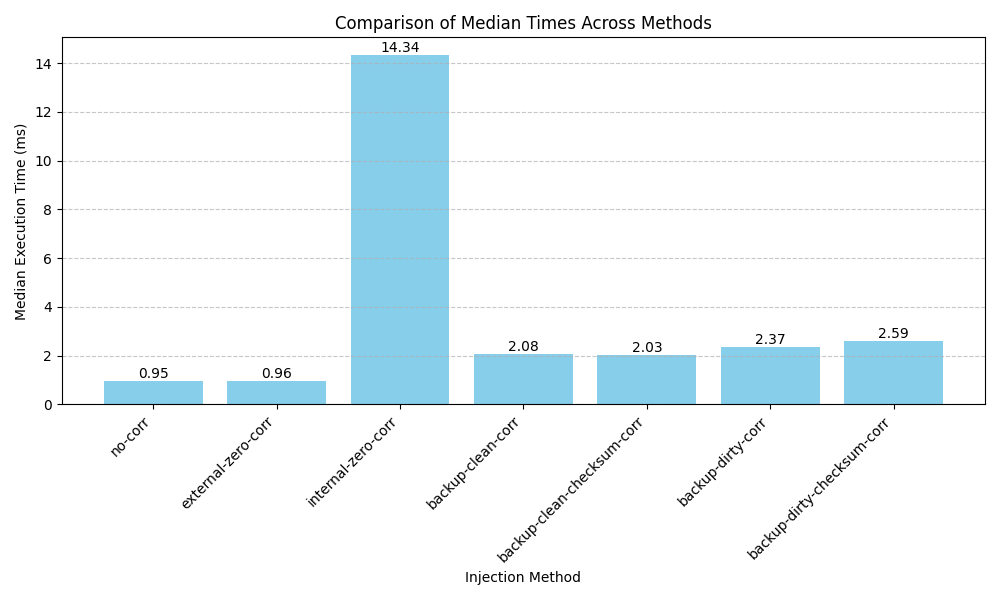
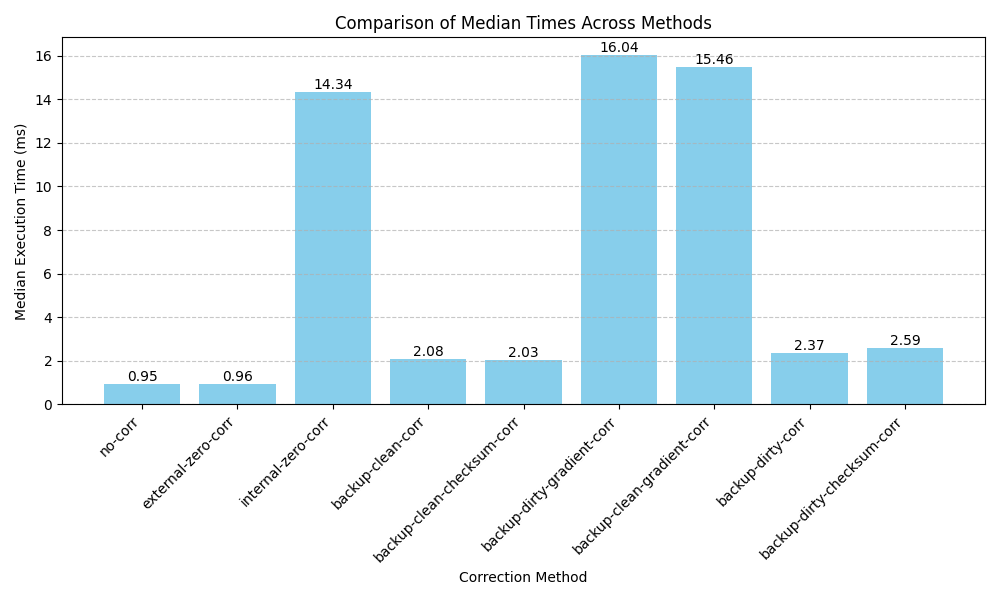
fix exec time chart

diff --git a/data-collection.py b/data-collection.py
@@ -12,8 +12,8 @@ results = {}
 for k, v in raw_data.items():
     acc_mean = statistics.mean(v["acc"])
     time_median = statistics.median(v["time"])
-    if "gradient" in k:
-        continue
+    # if "gradient" in k:
+    #     continue
     results[k] = {
         "acc": acc_mean,
         "time": time_median
@@ -89,7 +89,7 @@ plt.figure(figsize=(10,6))
 bars = plt.bar(methods, times, color='skyblue')
 
 plt.ylabel("Median Execution Time (ms)")
-plt.xlabel("Injection Method")
+plt.xlabel("Correction Method")
 plt.title("Comparison of Median Times Across Methods")
 plt.xticks(rotation=45, ha='right')
 plt.grid(axis='y', linestyle='--', alpha=0.7)
